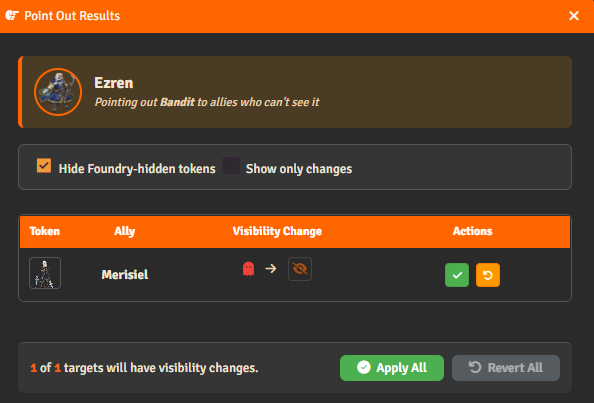
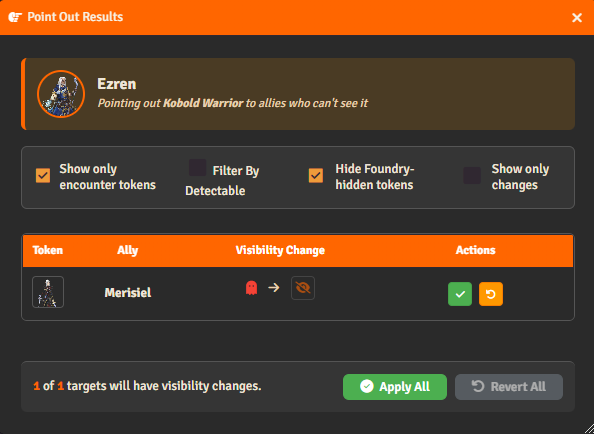
revision for alpha overhaul

diff --git a/Actions.md b/Actions.md
@@ -5,11 +5,20 @@ Actions that produce a "Results" dialog, which allows the GM to exert discretion
 
 A description of the normal flow for each of these actions follows below; for information regarding how Pathfinder 2e feats and features modify some of the functionality described here, you may read about the feats we have hardcoded support for [here.](Feats-and-Features.md)
 
+# Results Dialogs:
+Visioner adds a results dialog to actions allowing GMs to easily alter the visibility state of tokens affected by the action. These each resemble the Visioner Manager interface in that they list token pairs, the current visibility state between them, and the recommended visibility state based on the action taken.
+
+> [!NOTE]
+> The token avatars in these dialogs are interactive. Clicking on them will pan the canvas to center on the token represented.
+
 ## Filters:
-Each action dialog is able to filter results based on a number of criteria represented by checkboxes in the header of the window. **Token pairs that are filtered out from view are** ***not*** **acted upon when changes are applied.** Filters include:
+Each action dialog is able to filter results based on a number of criteria represented by checkboxes in the header of the window. Token pairs that are filtered out from view are ***not*** acted upon when changes are applied.
+
+**Filters include:**
 
 | Filter | Description |
 | --- | --- |
+|**Filter by Detectable** | Tokens that are not detectable by the acting token (e.g. due to distance, or being in a different elevation layer) are filtered out of the results. This is particularly useful on large maps with many tokens.|
 |**Hide Foundry-Hidden Tokens** | Tokens that have their visibility state toggled off by Foundry core are generally precluded from Visioner consideration in auto-cover and AVS, and may also be filtered from dialog boxes. This is particularly helpful on large maps with many tokens placed as Foundry-Hidden for setup.|
 | **Ignore Allies** | Do not view or manipulate visibility states between allies (e.g. sneaking and becoming undetected by fellow party members.) |
 | **Show Only Changes** | Filter out token-pair rows in the table in which the visibility state does not change. |
@@ -68,6 +77,10 @@ The Seek results dialog differs in that the visibility states column changes how
 
 In addition, Seek is particularly interesting because in addition to seeking to improve visibility on character tokens, Visioner provides using Seek on Loot Tokens and Hazards with a stealth DC, and even adds properties to hidden walls and doors to allow players to discover them with the Seek action. 
 
+**Because Seek is not limited to the sense of sight alone, a chip in the header can be hovered over to show what precise and imprecise senses are available to the actor performing the action, as well as which sense was used for the results:**
+
+![Seek Results Sense Chip](images/actions/seek_results_senses.png)
+
 ## Seeking for Loot and Hazard Tokens
 Any token with a Stealth DC is potentially interactable with the Visioner Seek interface. Due to the technical limitations of needing to respect Foundry-Hidden tokens, loot actor tokens and hazards you wish to make discoverable through the action will need to be set up in advance:
 
@@ -108,7 +121,8 @@ Visioner determines that movement has ended when the GM uses `Open Sneak Results
 
 ![Sneak Results](images/actions/sneak_results.png)
 
-- Both start and end positions are tested for Sneak action requirements being met by AVS and Auto-Cover, if they are turned on. If either test fails, sneak cannot be performed against that token and the visibility state recommendation will be `observed`.
+- An information chip in the header will call out the max distance the token was allowed to move while sneaking given the type of movement taken. Additional information for the GM to consider regarding feats and class features may also be found in this area. 
+- If AVS and Auto-Cover are enabled, Visioner uses them to test that prerequisites for the Sneak action are met at the start and end positions of the movement. If either test fails, sneak cannot be performed against that token and the visibility state recommendation will be `observed`. The GM may override this detection by clicking the large green or red button in the appropriate column, and recommended results will adjust accordingly.
 - Cover bonus should be applied to the roll if a degree of cover is maintained over the course of the entire movement, by RAW. Due to technical limitations and the likelihood that player paths may confuse the automation, cover bonus is currently manually applied by the GM.
 
 > [!IMPORTANT]
